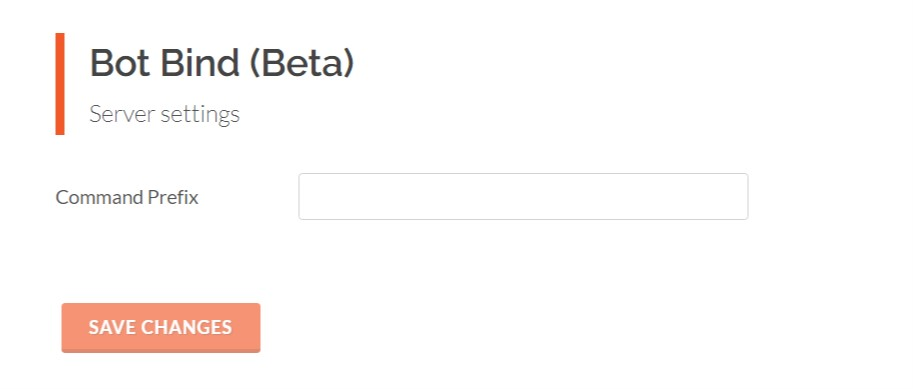
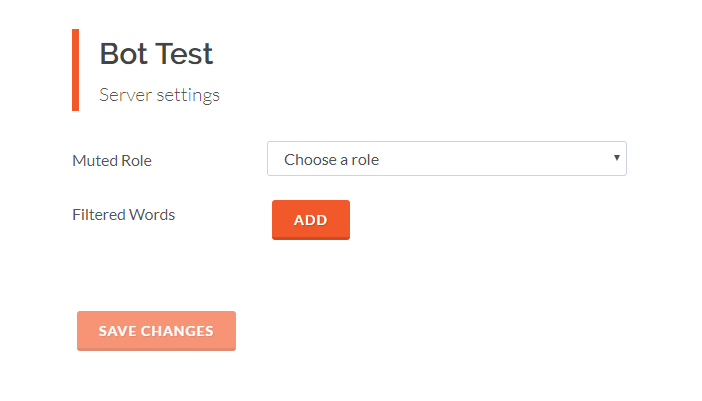
rehaul the docs

diff --git a/.vuepress/config.js b/.vuepress/config.js
@@ -11,7 +11,17 @@ module.exports = {
       { text: "Home", link: "/" },
       { text: "Main Site", link: "https://botbind.com" }
     ],
-    sidebar: ["/", "/testing", "/dashoptions"],
+    sidebar: [
+      "/",
+      "/submitting",
+      "/commands",
+      "/monitors",
+      "/events",
+      "/tasks",
+      "/languages",
+      "/database",
+      "/dashoptions"
+    ],
     sidebarDepth: 1,
     lastUpdated: true,
     repo: "botbind/docs",

diff --git a/index.md b/index.md
@@ -8,109 +8,88 @@ Bot Bind is not only a platform for creating Discord Bots, but also a community 
 Bot Bind uses a modified version of the powerful [Klasa](https://github.com/botbind/klasa) framework for discord.js to run the bots and the addons within it. The addon creation and submission process is quite simple and straight forward. We will guide through the process from start to the end.
 
 ::: tip But, what if I don't know Javascript?
-All botbind bots run on NodeJS, and we currently only support Javascript for addons.
+All Bot Bind bots run on NodeJS, and we currently only support Javascript for addons.
 :::
 
 ## Prerequisites
 
 - Any code editor (We recommend [VS Code](https://code.visualstudio.com))
 - NodeJS 10+ ([Download](https://nodejs.org/en/download))
+- Git ([Download](https://git-scm.com/downloads))
 - Bot Bind Developer account ([Sign Up](https://botbind.com/dev))
 
 ## Setup Environment
 
-1. First, lets create an empty folder somewhere called **Addons**. Then inside that folder, create a new folder, lets call it **my-first-addon**.
-2. Now lets open that folder in your favorite code editor. In this guide, we will use VS Code.
-3. In VS Code go to **File** > **Open Folder**. Then select the **Addons** folder. You should see the **my-first-addon** in the sidebar.
-4. Great, now right click on **my-first-addon** in the editor, and select **Open in terminal**.
-5. Check if you have NodeJS 10 or above by typing this in the terminal:
+1. First, create a working folder somewhere on your computer, call it **botbind**.
+2. Open your Command Prompt or Terminal and navigate to your working folder.
 
-```
-node --version
-```
-
-6. Finally, initialize your addon **package.json**
-
-```
-npm init -y
+```sh
+C:\Users\docs> cd Desktop
+C:\Users\docs\Desktop> cd botbind
+C:\Users\docs\Desktop\botbind>
 ```
 
-It will look something like this:
+It should look something like this, depends on where your folder is located.
 
-![VSCode](/assets/img/vscode.jpg)
+3. Using your terminal, install the necessary files:
 
-## Creating your first addon
+```sh
+# Clone repo from github
+git clone https://github.com/botbind/addon-development.git
 
-Lets create a tiny addon that responds to a bot command.
+# Go to the cloned folder
+cd addon-development
 
-1. Create a new file inside the **my-first-addon** folder. Name it **index.js**.
-2. Paste this snippet of code inside your **index.js**:
-
-```js
-const {
-  Client: { plugin }
-} = require("@botbind/klasa");
-
-module.exports = {
-  [plugin]() {
-    this.commands.registerCoreDirectory(`${__dirname}/`);
-  }
-};
+# install the dependencies
+npm install
 ```
 
-3. Now lets create a simple command for your addon. Create a folder called **commands**.
-4. Inside that folder, create another folder called **Awesome Addon**.
-
-![VSCode1](/assets/img/vscode1.jpg)
-
-5. And inside that folder, create a file called **helloworld.js**.
-6. Add this snippet of code to your **helloworld.js**.
-
-```js
-const { Command } = require("@botbind/klasa");
-
-module.exports = class extends Command {
-  run(msg) {
-    return msg.send(`Hi ${msg.author.username}!`);
-  }
-};
-```
-
-That's it, simple isn't it? You just created your first addon
-
-## Submitting
-
-So far you have made a simple addon that responds to a command. Now lets learn how you can submit your amazing addon to Bot Bind, where everyone can consume your great creation.
-
-If you are working on something more complex then what we did above, you may want to test how it works before submitting it. Please read about [testing your addon here](/testing).
-
-Before starting, make sure you have a developer account with enough addon submissions available. You can sign up for a dev profile at [botbind.com/dev](https://botbind.com/dev).
-
-If you are good to go, lets start off with packing your addon as a tarball.
-
-1. Open your addon folder and pack it using npm.
-
-```
-cd path/to/my-first-addon
-npm pack
-```
-
-You should now have a **my-first-addon.tgz**, which is ready for uploading.
-
-2. Go to your Bot Bind developer profile page, and click on **New Addon**.
-
-![profile](/assets/img/profile.jpg)
-
-3. Fill in all the required fields, and click submit.
-4. In the addon manage page, go to the files page.
-5. Click on Add version, and fill out all the fields. Here you have to upload the tgz file we created.
-
-![profile](/assets/img/addon.jpg)
-
-Thats it, you have uploaded your very first addon to the bot bind addon storage.
-
-::: warning Do not publish your version
-Only send a version for approval when you have developed something more useful. You cannot delete an addon once its published.
+::: warning Note
+If you get any errors after executing the commands above, make sure you have the [Prerequisites](#prerequisites) installed
 :::
+
+4. Once done, your directory structure to look similar to this:
+
+```
+.
+└── addon-development
+    ├── addons
+    │   └── my-first-addon
+    │       ├── commands
+    │       │   └── helloworld.js
+    │       ├── index.js
+    │       └── package.json
+    ├── bot.js
+    ├── package-lock.json
+    └── package.json
+```
+
+You are now ready to develop addons.
+
+## Testing your first addon
+
+1. Go to [Discord Developer Portal](https://discordapp.com/developers/applications/) and create a new Application.
+2. Enable Bot in the application and copy the **Bot Token**.
+
+![DevPortal](/assets/img/devportal.png)
+
+::: warning
+Do not reuse the token you used to create a bot on botbind.com
+:::
+
+3. Open `bot.js` and replace your token that you got from Step 2.
+4. Invite the "Test bot" you created to a Discord server, and start the bot using the terminal:
+
+```sh
+node bot
+```
+
+::: warning Note
+If this gives you can error, make sure the terminal is in the `addon-development` folder.
+:::
+
+5. You should now see your bot online in Discord. Now go ahead and type in `?helloworld` to check if everything is working fine.
+
+![Discord](/assets/img/discord.png)
 
 Feel free to explore the rest of the documentation to figure out where to go from here. You can join our [Discord server](https://discordapp.com/invite/8y35DgW) if you unsure about something.

diff --git a/submitting.md b/submitting.md
@@ -1,0 +1,40 @@
+# Submitting your addon
+
+So you have made your first addon that does something cool (I hope). Now lets learn how you can submit your amazing work to Bot Bind, where everyone can consume your great creation.
+
+Before starting, make sure you have a developer account with enough addon submissions available. You can sign up for a dev profile at [botbind.com/dev](https://botbind.com/dev).
+
+If you are good to go, lets start off with packing your addon as a tarball.
+
+## Packaging
+
+Open your addon folder and pack it using npm.
+
+```sh
+cd botbind/addon-development/addons/my-first-addon
+npm pack
+```
+
+::: warning Note
+Your addon path might be different from what's shown above. Adjust it to what you have set up on your computer.
+:::
+
+You should now have a **my-first-addon.tgz**, which is ready for uploading.
+
+## Uploading
+
+1. Go to your Bot Bind [developer profile](http://botbind.com/dev), and click on **New Addon**.
+
+![profile](/assets/img/profile.jpg)
+
+2. Fill in all the required fields, and click submit.
+3. In the addon manage page, go to the files page.
+4. Click on Add version, and fill out all the fields. Here you have to upload the tgz file we created.
+
+![profile](/assets/img/addon.jpg)
+
+Thats it, you have uploaded your very first addon to the bot bind addon storage.
+
+::: warning Do not publish your version
+Only send a version for approval when you have developed something useful. You cannot delete an addon once its published.
+:::

diff --git a/dashoptions.md b/dashoptions.md
@@ -19,8 +19,18 @@ Use JSON to easily add form elements. Here is a simple example:
 ```json
 [
   {
-    "key": "prefix",
-    "label": "Command Prefix"
+    "key": "roles.muted",
+    "type": "roles",
+    "label": "Muted Role"
+  },
+  {
+    "key": "filteredWords",
+    "type": "array",
+    "label": "Filtered Words",
+    "placeholder": "Enter a bad word",
+    "props": {
+      "required": true
+    }
   }
 ]
 ```

diff --git a/languages.md b/languages.md
@@ -1,0 +1,3 @@
+# Creating Languages
+
+## Coming Soon

diff --git a/commands.md b/commands.md
@@ -1,0 +1,3 @@
+# Creating Commands
+
+## Coming Soon

diff --git a/monitors.md b/monitors.md
@@ -1,0 +1,3 @@
+# Creating Monitors
+
+## Coming Soon

diff --git a/events.md b/events.md
@@ -1,0 +1,3 @@
+# Creating Events
+
+## Coming Soon

diff --git a/database.md b/database.md
@@ -1,0 +1,3 @@
+# Addon Database
+
+## Coming Soon

diff --git a/tasks.md b/tasks.md
@@ -1,0 +1,3 @@
+# Creating Tasks
+
+## Coming Soon
